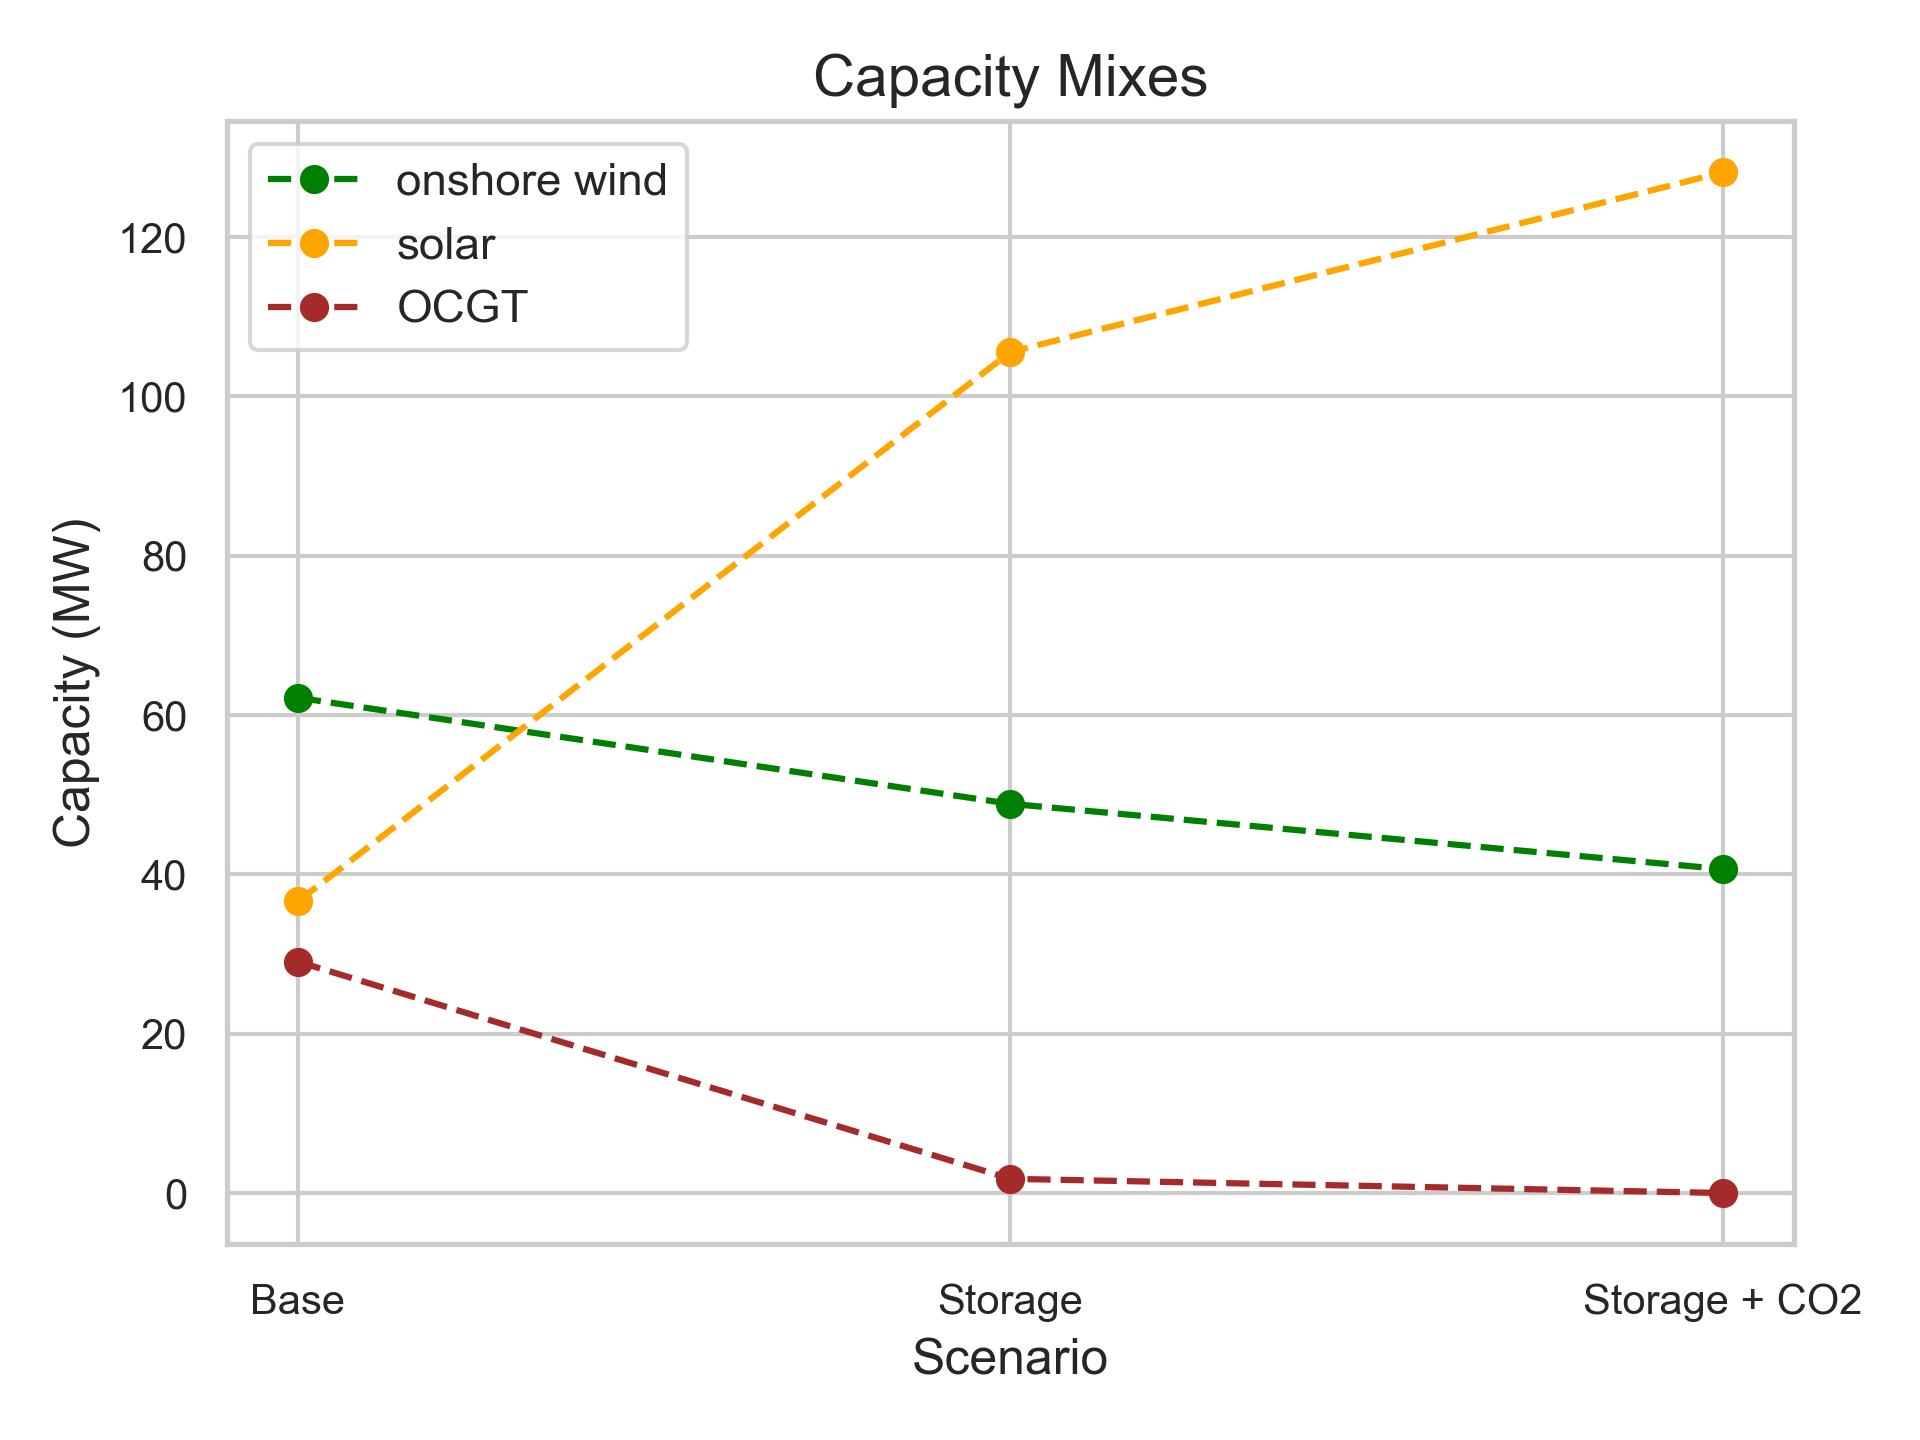
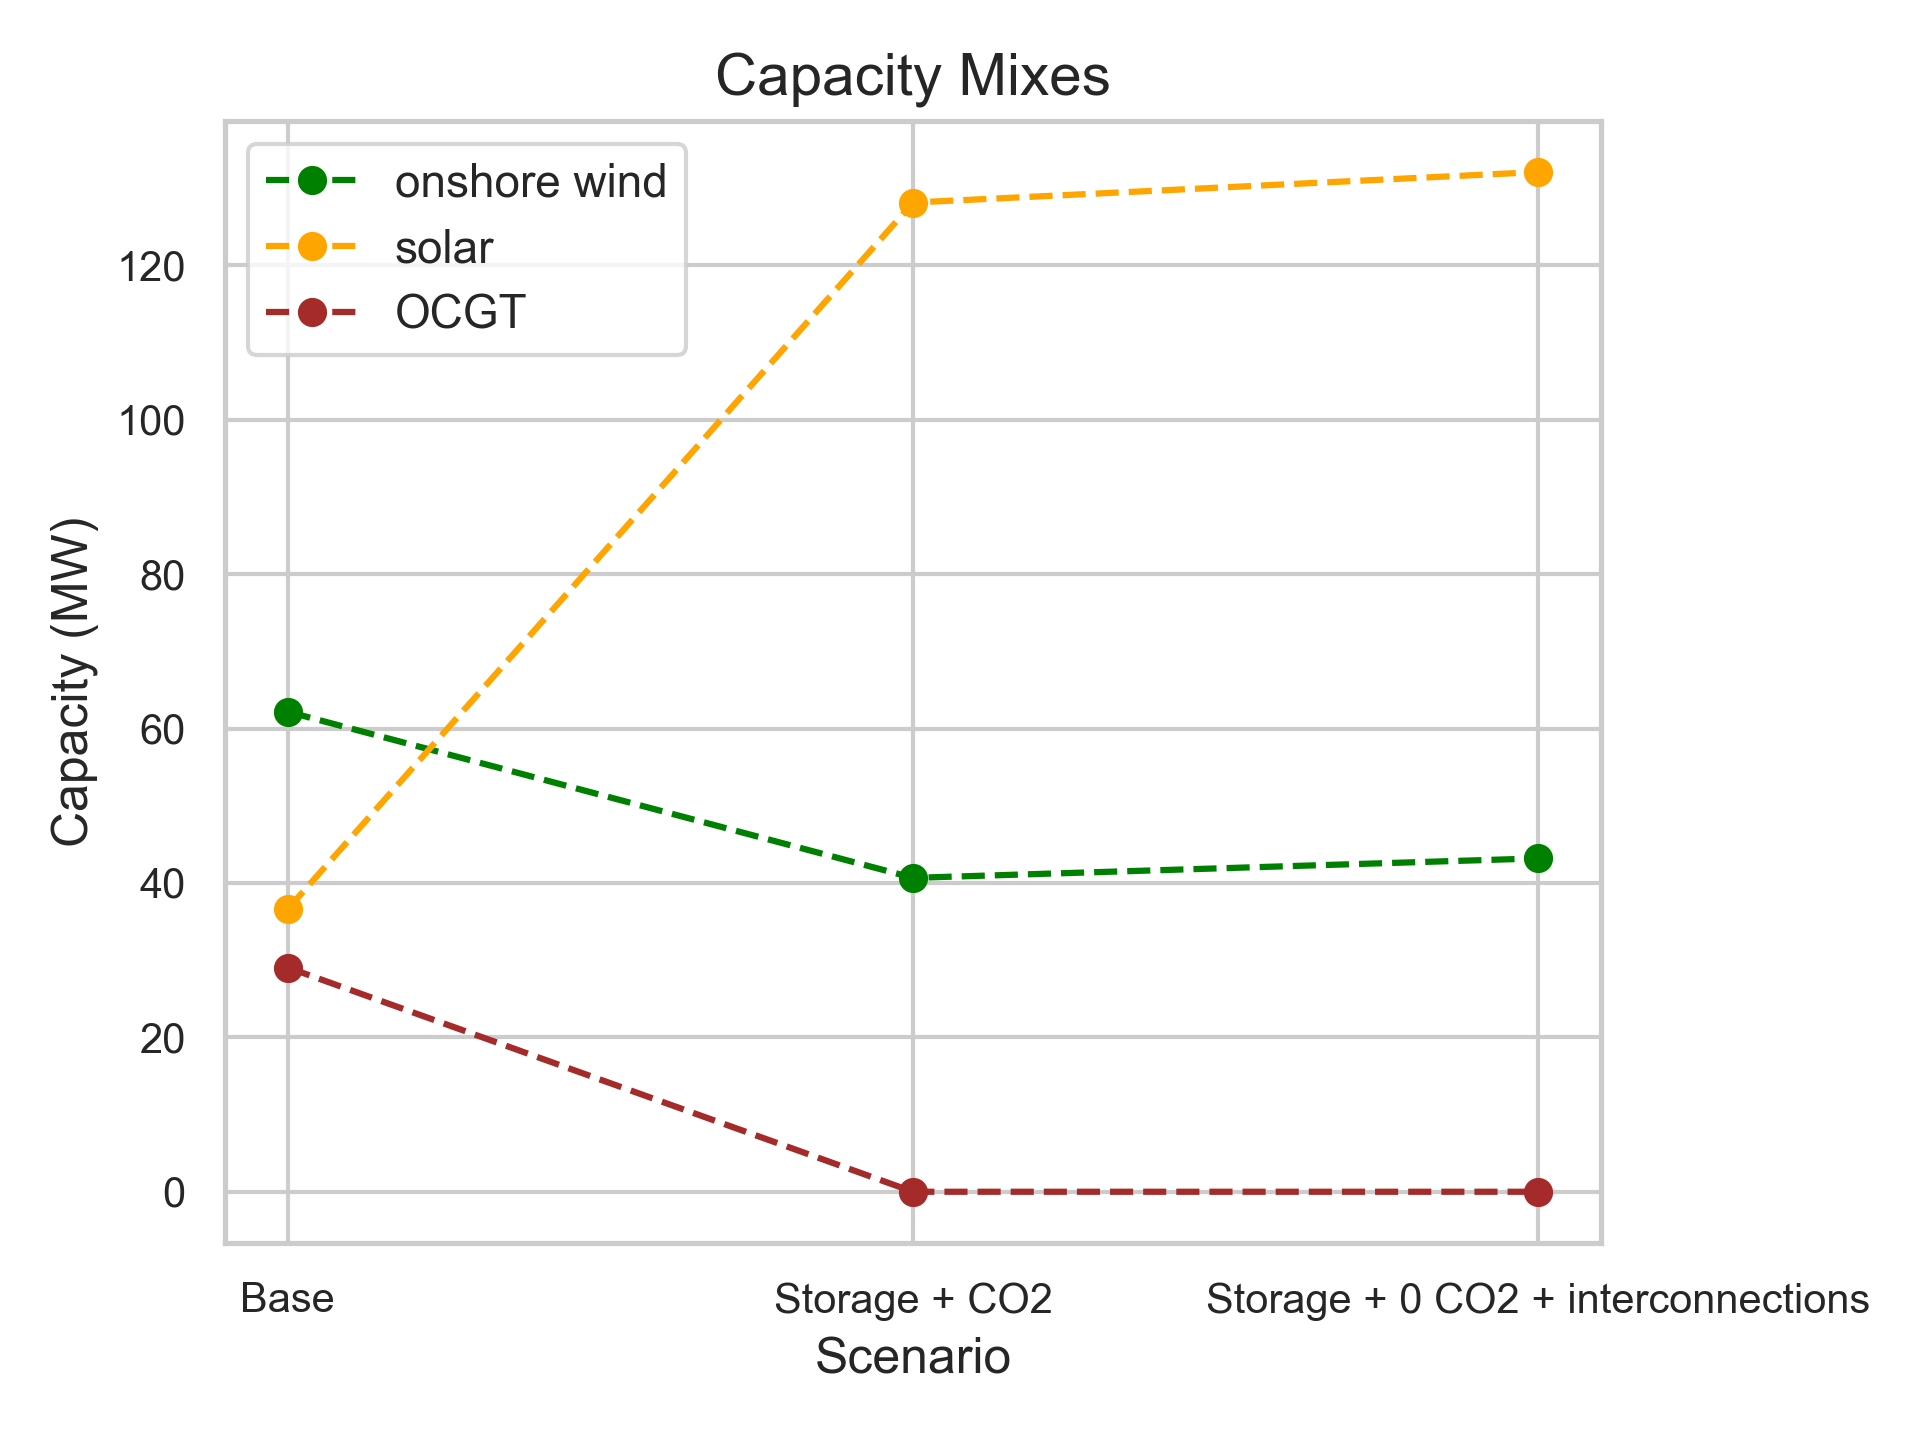
Updates in plots

diff --git a/results_plotter.py b/results_plotter.py
@@ -29,6 +29,29 @@ LABELS      = {'GENERATORS' : ['Onshore Wind', 'Solar', 'Gas (OCGT)'],
                'LOADS'      : ['Demand']
                }
 
+REFERENCES_FRA  = {'GENERATORS' : ['FRA wind', 'FRA solar', 'FRA nuke'],
+               'LOADS'      : ['FRA load']
+               }
+COLORS_FRA      = {'GENERATORS' : ['green', 'orange', 'purple'],
+               'LOADS'      : ['black']
+               }
+LABELS_FRA      = {'GENERATORS' : ['Onshore Wind', 'Solar', 'Nuclear'],
+               'LOADS'      : ['Demand France']
+               }
+
+REFERENCES_PRT  = {'GENERATORS' : ['PRT wind', 'PRT solar', 'PRT gas'],
+               'LINKS'      : ['PRT HDAM'],
+               'LOADS'      : ['PRT load']
+               }
+COLORS_PRT      = {'GENERATORS' : ['green', 'orange', 'brown'],
+               'LINKS'      : ['blue'],
+               'LOADS'      : ['black']
+               }
+LABELS_PRT      = {'GENERATORS' : ['Onshore Wind', 'Solar', 'Gas (OCGT)'],
+               'LINKS'      : ['Hydro (Dam)'],
+               'LOADS'      : ['Demand Portugal']
+               }
+
 def save_figure(filename):
     filepath = str(pathlib.Path(__file__).parent.resolve()) + "/results/" + filename
     plt.tight_layout()
@@ -75,6 +98,56 @@ def plot_electricity_mix(network, filename: str | None = None):
     plt.axis('equal')
 
     plt.title('Electricity mix')
+
+    if filename is not None: save_figure(filename)
+
+    plt.show()
+
+def plot_electricity_mix_neighbor_fra(network, filename: str | None = None):
+    # Plot the electricity mix
+    sizes = []
+    colors = []
+    labels = []
+    for ix, gen in enumerate(REFERENCES_FRA['GENERATORS']):
+        sizes += [network.generators_t.p[gen].sum()]
+        colors += [COLORS_FRA['GENERATORS'][ix]]
+        labels += [LABELS_FRA['GENERATORS'][ix]]
+
+    plt.pie(sizes,
+            colors=colors,
+            labels=labels,
+            wedgeprops={'linewidth':0},
+            autopct='%1.1f%%',)
+    plt.axis('equal')
+
+    plt.title('Electricity mix France')
+
+    if filename is not None: save_figure(filename)
+
+    plt.show()
+
+def plot_electricity_mix_neighbor_prt(network, filename: str | None = None, neighbor: str = "PRT"):
+    # Plot the electricity mix
+    sizes = []
+    colors = []
+    labels = []
+    for ix, gen in enumerate(REFERENCES_PRT['GENERATORS']):
+        sizes += [network.generators_t.p[gen].sum()]
+        colors += [COLORS_PRT['GENERATORS'][ix]]
+        labels += [LABELS_PRT['GENERATORS'][ix]]
+    for ix, link in enumerate(REFERENCES_PRT['LINKS']):
+        sizes += [-network.links_t.p1[link].sum()]
+        colors += [COLORS['LINKS'][ix]]
+        labels += [LABELS['LINKS'][ix]]
+
+    plt.pie(sizes,
+            colors=colors,
+            labels=labels,
+            wedgeprops={'linewidth':0},
+            autopct='%1.1f%%',)
+    plt.axis('equal')
+
+    plt.title('Electricity mix Portugal')
 
     if filename is not None: save_figure(filename)
 
@@ -277,7 +350,7 @@ def capacity_mixes_storage(networks: Dict[str, pypsa.Network], filename: str | N
         plt.plot(gen_capacities[label], '--o', color=color, label=label)
     # plt.plot(gen_capacities, style='--o', color=COLORS['GENERATORS'])
     # gen_capacities.plot(style='--o', color=COLORS['GENERATORS'], xticks=gen_capacities.index)
-    plt.ylabel("Capacity (MW)")
+    plt.ylabel("Capacity (GW)")
     plt.xlabel("Scenario")
     plt.xticks(np.arange(len(gen_capacities)), gen_capacities.index)
     plt.legend()
@@ -299,4 +372,79 @@ def plot_co2_limit_vs_price(co2_limits: np.ndarray, co2_prices: np.ndarray, file
 
     if filename is not None: save_figure(filename)
 
+    plt.show()
+
+
+def plot_storage_day_neighbor(network: pypsa.Network, filename: str | None = None):
+    network.generators_t.p[REFERENCES['GENERATORS']].groupby(network.snapshots.hour).mean().reindex(np.arange(0,25)).ffill().plot(drawstyle="steps-post")
+    
+    hours = np.arange(0, 25)
+
+    # Get all lines that are interconnectors (from your network to neighbors)
+    interconnector_lines = network.lines[network.lines['bus0'] == "electricity bus"]
+
+    for line_name, line_data in interconnector_lines.iterrows():
+        neighbor = line_data['bus1']
+        flows = network.lines_t.p0[line_name].groupby(network.snapshots.hour).mean()
+        flows = flows.reindex(hours).ffill()
+
+        # Split into import/export
+        import_power = flows.clip(upper=0).abs()  # Negative flow (into your network)
+        export_power = flows.clip(lower=0)        # Positive flow (out of your network)
+
+        if neighbor == "FRA":
+            color = "orange"
+        elif neighbor == "PRT":
+            color = "cyan"
+        # Plot each
+        plt.step(
+            x=hours,
+            y=import_power,
+            where='post',
+            label=f"Import from {neighbor}",
+            linestyle='--',
+            color=color,
+            alpha=0.6,
+        )
+        plt.step(
+            x=hours,
+            y=-export_power,
+            where='post',
+            label=f"Export to {neighbor}",
+            linestyle='-',
+            color=  color,
+            alpha=0.6,
+        )
+
+    for store in ["DamWater", "PumpedHydro", "Battery", "H2"]:
+        charge = (network.links.loc[network.links['bus1'] == store].index[0] if store != "DamWater" else [])
+        discharge = network.links.loc[network.links['bus0'] == store].index[0]
+        # plt.plot(
+        #     (- network.links_t.p1[discharge].groupby(network.snapshots.hour).mean() if store != "DamWater" else 0) - network.links_t.p0[charge].groupby(network.snapshots.hour).mean(), 
+        #     label=store,
+        # )
+        plt.step(
+            x=network.links_t.p1[discharge].groupby(network.snapshots.hour).mean().reindex(np.arange(0,25)).ffill().index,
+            y=(- network.links_t.p1[discharge].groupby(network.snapshots.hour).mean().reindex(np.arange(0,25)).ffill() ) - (network.links_t.p0[charge].groupby(network.snapshots.hour).mean().reindex(np.arange(0,25)).ffill() if store != "DamWater" else 0), 
+            label=store,
+            where='post',
+        )
+    
+    plt.fill_between(
+        x=network.loads_t.p['load'].groupby(network.snapshots.hour).mean().reindex(np.arange(0,25)).ffill().index,
+        y1=network.loads_t.p['load'].groupby(network.snapshots.hour).mean().reindex(np.arange(0,25)).ffill(), 
+        color='grey', 
+        label='demand',
+        alpha=0.5,
+        step='post',
+    )
+    plt.legend(fancybox=True, loc='center left', bbox_to_anchor=(1, 0.5))
+    plt.xlabel("Hour of the day")
+    plt.ylabel("MW")
+    plt.xlim(
+        network.loads_t.p['load'].groupby(network.snapshots.hour).mean().index[0], 
+        network.loads_t.p['load'].groupby(network.snapshots.hour).mean().index[-1]+1,
+    )
+
+    if filename is not None: save_figure(filename)
     plt.show()

diff --git a/f.py b/f.py
@@ -153,13 +153,15 @@ def add_neighbors(network: pypsa.Network, data: DataLoader):
 
     return network
 
-if __name__ == '__main__':
-    data = DataLoader(country="ESP", discount_rate=0.07)
+def compare_capacity_mixes(data: DataLoader, co2_limit: float, filename: str | None = None):
+    """ Compare capacity mixes with and without the CO2 constraint and storage """
+    n_base = create_network(data)
+    n_base.optimize()
 
-    print(len(data.cf_hydro))
-    print(data.cf_hydro.max())
-    print(max(data.cf_hydro.values))
-    print("PRT DamWater", max(data.cf_hydro_PRT.values))
+    n_storage_co2 = create_network(data)
+    n_storage_co2 = add_storage(n_storage_co2, data)
+    n_storage_co2 = add_co2_constraint(n_storage_co2, 0) # 0 MT CO2 limit
+    n_storage_co2.optimize()
 
     co2_limit = 0 # 50 MT CO2 limit
 
@@ -171,27 +173,68 @@ if __name__ == '__main__':
 
     # Optimize the network
     network.optimize()
-    network.plot(margin=0.4)
-    plt.show()
+
+    networks = {
+        "Base": n_base,
+        "Storage + CO2": n_storage_co2,
+        "Storage + 0 CO2 + interconnections": network,
+    }
+    plot.capacity_mixes_storage(networks, filename)
+    
+
+if __name__ == '__main__':
+    data = DataLoader(country="ESP", discount_rate=0.07)
+    
+    co2_limit = 0 # 50 MT CO2 limi
+    compare_capacity_mixes(data, co2_limit, filename="d_capacity_mix_plot.png")
+
+    print(len(data.cf_hydro))
+    print(data.cf_hydro.max())
+    print(max(data.cf_hydro.values))
+    print("PRT DamWater", max(data.cf_hydro_PRT.values))
+
+    
+
+    # Create the network
+    network = create_network(data)
+    network = add_storage(network, data)
+    network = add_co2_constraint(network, co2_limit)
+    network = add_neighbors(network, data)
+
+    # Optimize the network
+    network.optimize()
+    
+    plot.plot_storage_day_neighbor(network, filename = "storge_with_interconnectors.png")
+
+    plot.plot_electricity_mix_neighbor_fra(network, filename = "electricity_mix_neighborFRA.png")
+    plot.plot_electricity_mix_neighbor_prt(network, filename = "electricity_mix_neighbor_prt.png")
+
 
     network.generators.p_nom_opt.div(10**3).plot.barh()
-    plt.ylabel("Capacity (GW)")
+    plt.xlabel("Capacity (GW)")
     plt.show()
     plot.plot_electricity_mix(network) #, filename="f_electricity_mix.png")
+    
+    
 
-    network.lines_t.p0.div(1e3).plot()
+    network.lines_t.p0.groupby(network.lines_t.p0.index.date).mean().plot()
     plt.ylabel("Power (GW) - leaving Spain")
-    plt.xlabel("Time (Hourly Resolution)")
+    plt.xlabel("Time (Daily Resolution)")
     plt.title("Power Flow in Lines")
     plt.legend(title="Line")
     plt.tight_layout()
     plt.show()  
 
+    
+
     network.lines.s_nom_opt.div(1e3).plot.barh()
-    plt.ylabel("Capacity (GW)")
-    plt.xlabel("Line")
+    plt.xlabel("Capacity (GW)")
+    plt.ylabel("Line")
     plt.title("Line Capacity")
     plt.tight_layout()
     plt.show()  
+
+    print(network.links_t.p0)
+    print(network.generators_t.p)
 
     print(0)
